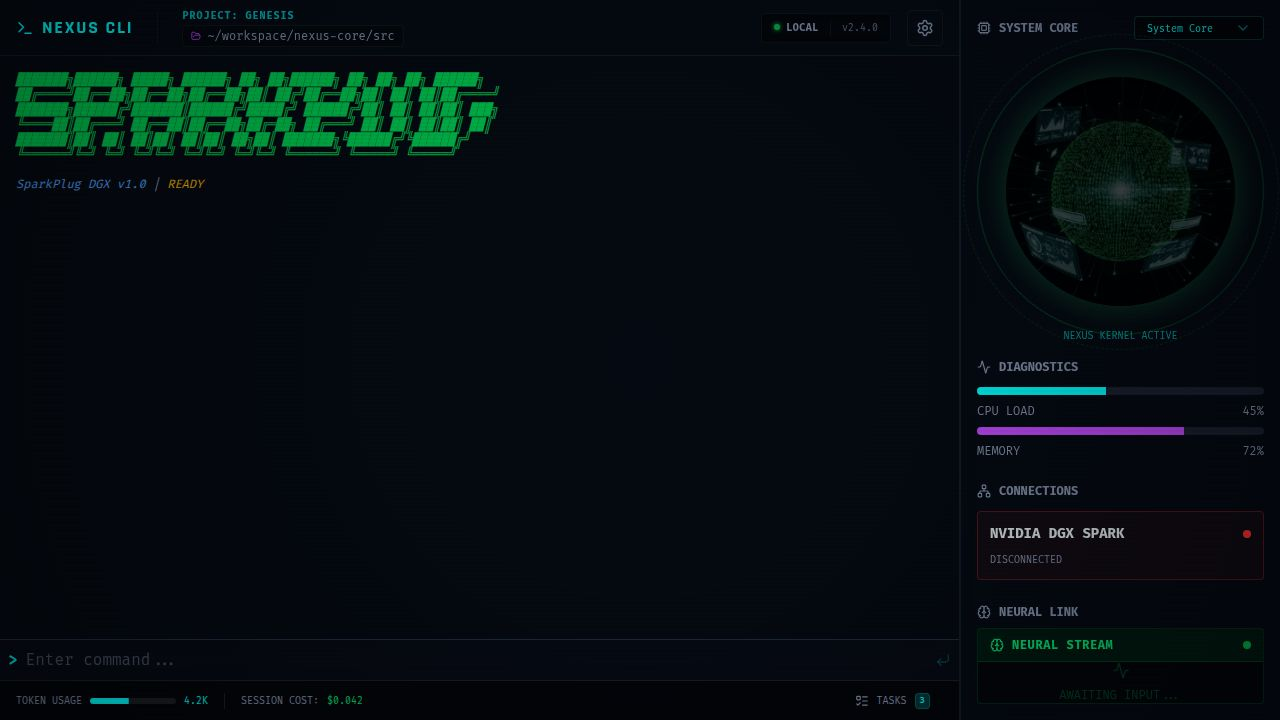
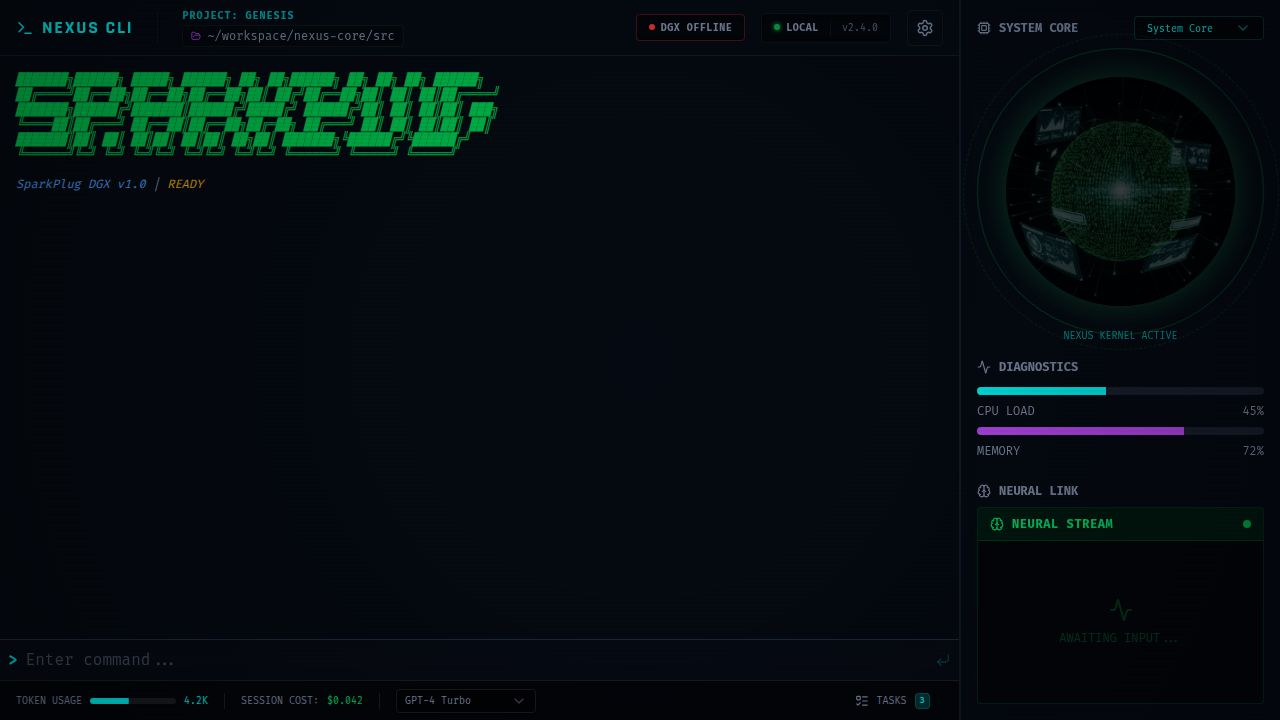
Add model selection option to the application status bar
Adds a dropdown menu to the home page status bar for selecting AI models, including options for GPT-4, Claude 3, Llama 3, and custom local models.

Replit-Commit-Author: Agent
Replit-Commit-Session-Id: e10e73e7-4d84-4df2-86f2-89af6afb35a3
Replit-Commit-Checkpoint-Type: full_checkpoint
Replit-Commit-Event-Id: 40bb5dde-4ad3-4a9a-ba30-41423be6dcd3
Replit-Commit-Screenshot-Url: https://storage.googleapis.com/screenshot-production-us-central1/95c56e8f-46a9-404f-b36c-fe89e9955204/e10e73e7-4d84-4df2-86f2-89af6afb35a3/88uZcZb
Replit-Helium-Checkpoint-Created: true

diff --git a/client/src/pages/home.tsx b/client/src/pages/home.tsx
@@ -470,6 +470,24 @@ export default function Home() {
                <span>SESSION COST:</span>
                <span className="text-green-400">$0.042</span>
              </div>
+             <div className="h-4 w-px bg-white/10" />
+             <div className="flex items-center gap-2">
+               <Select defaultValue="gpt4">
+                 <SelectTrigger className="h-6 w-[140px] text-[10px] bg-black/40 border-white/10 text-muted-foreground px-2">
+                   <SelectValue placeholder="Model" />
+                 </SelectTrigger>
+                 <SelectContent className="bg-black/95 border-white/10 backdrop-blur-xl text-white">
+                   <div className="px-2 py-1.5 text-[10px] text-muted-foreground font-bold uppercase tracking-wider">Available Models</div>
+                   <SelectItem value="gpt4" className="text-xs">GPT-4 Turbo</SelectItem>
+                   <SelectItem value="claude3" className="text-xs">Claude 3 Opus</SelectItem>
+                   <SelectItem value="llama3" className="text-xs">Llama 3 70B</SelectItem>
+                   <SelectItem value="mistral" className="text-xs">Mistral Large</SelectItem>
+                   <div className="px-2 py-1.5 text-[10px] text-muted-foreground font-bold uppercase tracking-wider mt-1 border-t border-white/10 pt-2">Custom / Local</div>
+                   <SelectItem value="local-llama" className="text-xs">Local Llama 3 (8B)</SelectItem>
+                   <SelectItem value="finetune-1" className="text-xs">Project Genesis v2</SelectItem>
+                 </SelectContent>
+               </Select>
+             </div>
           </div>
 
           <Sheet>
